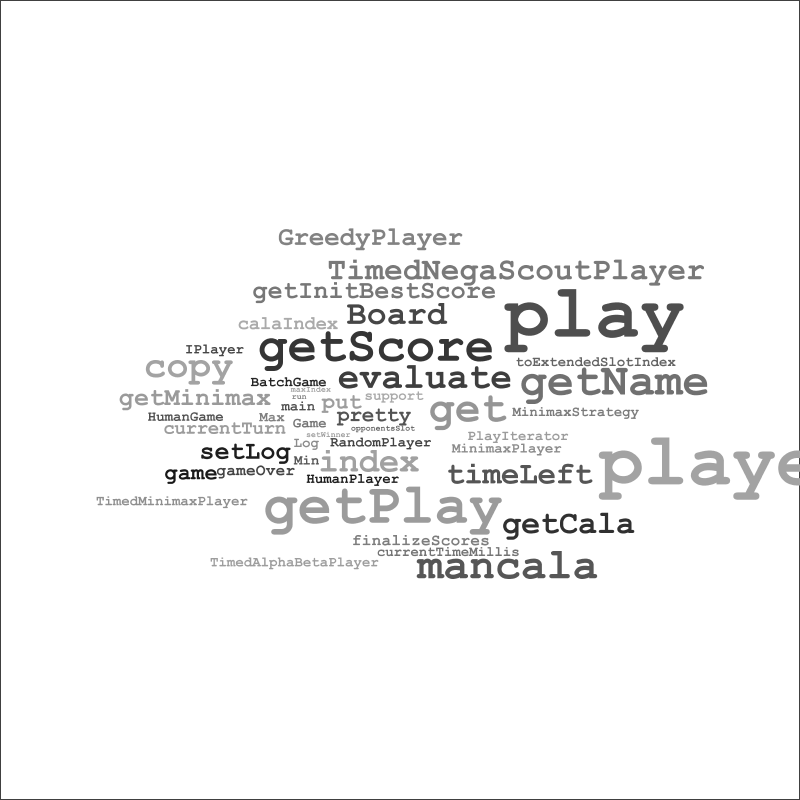
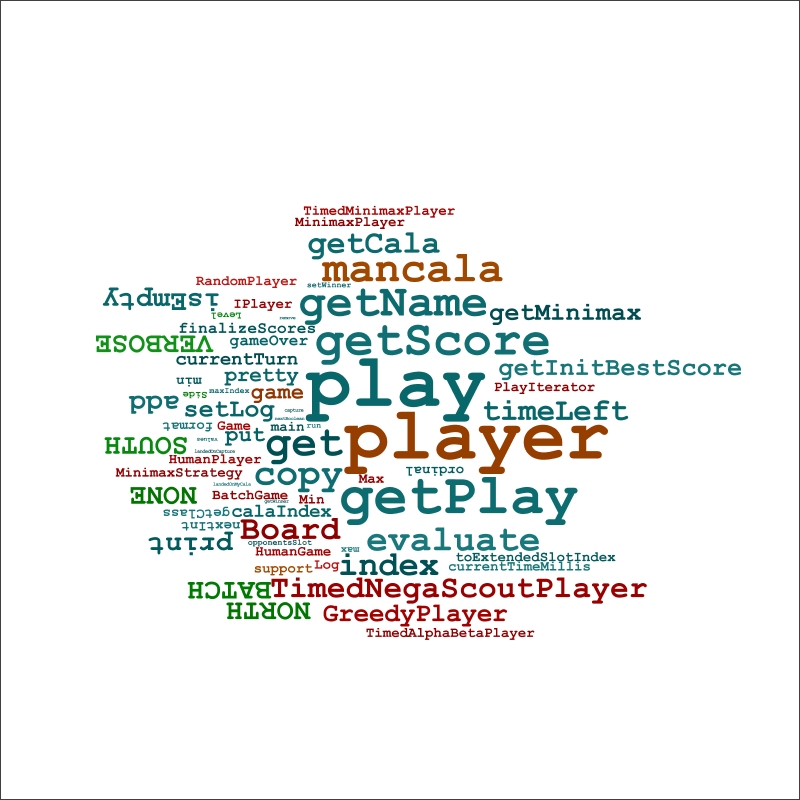
added a token type and a color schemer for Java

Changed region(s): [[0.125, 0.25, 1.0, 0.8125]]

diff --git a/src/main/java/org/chaoticbits/collabcloud/codeprocessor/java/JavaSummarizeVisitor.java b/src/main/java/org/chaoticbits/collabcloud/codeprocessor/java/JavaSummarizeVisitor.java
@@ -1,5 +1,9 @@
 package org.chaoticbits.collabcloud.codeprocessor.java;
 
+import static org.chaoticbits.collabcloud.codeprocessor.java.JavaTokenType.CLASS;
+import static org.chaoticbits.collabcloud.codeprocessor.java.JavaTokenType.ENUM;
+import static org.chaoticbits.collabcloud.codeprocessor.java.JavaTokenType.METHOD;
+import static org.chaoticbits.collabcloud.codeprocessor.java.JavaTokenType.PACKAGE;
 import japa.parser.ast.PackageDeclaration;
 import japa.parser.ast.body.ClassOrInterfaceDeclaration;
 import japa.parser.ast.body.EnumConstantDeclaration;
@@ -48,7 +52,7 @@ public class JavaSummarizeVisitor extends ReturnArgVisitorAdapter<CloudWeights> 
 	@Override
 	public CloudWeights visit(MethodDeclaration n, CloudWeights weights) {
 		super.visit(n, weights);
-		JavaSummaryToken token = new JavaSummaryToken(summarizable, n.getName(), n.getName(), "method");
+		JavaSummaryToken token = new JavaSummaryToken(summarizable, n.getName(), n.getName(), METHOD);
 		weights.increment(token, weight("methodDeclaration"));
 		return weights;
 	}
@@ -56,7 +60,7 @@ public class JavaSummarizeVisitor extends ReturnArgVisitorAdapter<CloudWeights> 
 	@Override
 	public CloudWeights visit(PackageDeclaration n, CloudWeights weights) {
 		super.visit(n, weights);
-		JavaSummaryToken token = new JavaSummaryToken(summarizable, n.getName().toString(), n.getName().getName(), "package");
+		JavaSummaryToken token = new JavaSummaryToken(summarizable, n.getName().toString(), n.getName().getName(), PACKAGE);
 		weights.increment(token, weight("package"));
 		return weights;
 	}
@@ -64,7 +68,7 @@ public class JavaSummarizeVisitor extends ReturnArgVisitorAdapter<CloudWeights> 
 	@Override
 	public CloudWeights visit(MethodCallExpr n, CloudWeights weights) {
 		super.visit(n, weights);
-		JavaSummaryToken token = new JavaSummaryToken(summarizable, n.getName(), n.getName(), "method");
+		JavaSummaryToken token = new JavaSummaryToken(summarizable, n.getName(), n.getName(), METHOD);
 		weights.increment(token, weight("methodCall"));
 		return weights;
 	}
@@ -72,7 +76,7 @@ public class JavaSummarizeVisitor extends ReturnArgVisitorAdapter<CloudWeights> 
 	@Override
 	public CloudWeights visit(ClassOrInterfaceDeclaration n, CloudWeights weights) {
 		super.visit(n, weights);
-		JavaSummaryToken token = new JavaSummaryToken(summarizable, n.getName(), n.getName(), "class");
+		JavaSummaryToken token = new JavaSummaryToken(summarizable, n.getName(), n.getName(), CLASS);
 		weights.increment(token, weight("classOrInterfaceDeclaration"));
 		return weights;
 	}
@@ -80,7 +84,7 @@ public class JavaSummarizeVisitor extends ReturnArgVisitorAdapter<CloudWeights> 
 	@Override
 	public CloudWeights visit(EnumDeclaration n, CloudWeights weights) {
 		super.visit(n, weights);
-		JavaSummaryToken token = new JavaSummaryToken(summarizable, n.getName(), n.getName(), "enum");
+		JavaSummaryToken token = new JavaSummaryToken(summarizable, n.getName(), n.getName(), ENUM);
 		weights.increment(token, weight("enumType"));
 		return weights;
 	}
@@ -88,7 +92,7 @@ public class JavaSummarizeVisitor extends ReturnArgVisitorAdapter<CloudWeights> 
 	@Override
 	public CloudWeights visit(EnumConstantDeclaration n, CloudWeights weights) {
 		super.visit(n, weights);
-		JavaSummaryToken token = new JavaSummaryToken(summarizable, n.getName(), n.getName(), "enum");
+		JavaSummaryToken token = new JavaSummaryToken(summarizable, n.getName(), n.getName(), ENUM);
 		weights.increment(token, weight("enumConstant"));
 		return weights;
 	}

diff --git a/src/test/java/org/chaoticbits/collabcloud/SummarizeRepo.java b/src/test/java/org/chaoticbits/collabcloud/SummarizeRepo.java
@@ -13,17 +13,17 @@ import org.apache.log4j.PropertyConfigurator;
 import org.chaoticbits.collabcloud.codeprocessor.CloudWeights;
 import org.chaoticbits.collabcloud.codeprocessor.IWeightModifier;
 import org.chaoticbits.collabcloud.codeprocessor.MultiplyModifier;
+import org.chaoticbits.collabcloud.codeprocessor.java.JavaColorScheme;
 import org.chaoticbits.collabcloud.codeprocessor.java.JavaProjectSummarizer;
 import org.chaoticbits.collabcloud.vc.git.GitLoader;
 import org.chaoticbits.collabcloud.vc.git.GitLoaderTest;
-import org.chaoticbits.collabcloud.visualizer.IColorScheme;
 import org.chaoticbits.collabcloud.visualizer.IPlaceStrategy;
 import org.chaoticbits.collabcloud.visualizer.Intersector;
 import org.chaoticbits.collabcloud.visualizer.LastHitCache.IHitCheck;
 import org.chaoticbits.collabcloud.visualizer.LayoutTokens;
 import org.chaoticbits.collabcloud.visualizer.RandomPlacement;
 import org.chaoticbits.collabcloud.visualizer.SpiralIterator;
-import org.chaoticbits.collabcloud.visualizer.color.RandomGrey;
+import org.chaoticbits.collabcloud.visualizer.color.IColorScheme;
 import org.chaoticbits.collabcloud.visualizer.font.BoundedLogFont;
 import org.chaoticbits.collabcloud.visualizer.font.IFontTransformer;
 
@@ -31,7 +31,7 @@ public class SummarizeRepo {
 	private static final double LEAF_CUTOFF = 1.0d;
 	private static final int SPIRAL_STEPS = 500;
 	private static final double SPIRAL_MAX_RADIUS = 400.0d;
-	private static final double SQUASHDOWN = 2;
+	private static final double SQUASHDOWN = 1;
 	private static final SpiralIterator spiral = new SpiralIterator(SPIRAL_MAX_RADIUS, SPIRAL_STEPS, SQUASHDOWN);
 	private static final File TEST_BED = new File("testgitrepo");
 	// private static final File THIS_REPO = new File("");
@@ -42,7 +42,8 @@ public class SummarizeRepo {
 	private static org.apache.log4j.Logger log = org.apache.log4j.Logger.getLogger(SummarizeRepo.class);
 	private static IWeightModifier modifier = new MultiplyModifier(1.1);
 	private static Font INITIAL_FONT = new Font("Courier New", Font.BOLD, 150);
-	private static IColorScheme COLOR_SCHEME = new RandomGrey(RAND, 25, 175);
+//	private static IColorScheme COLOR_SCHEME = new RandomGrey(RAND, 25, 175);
+	private static IColorScheme COLOR_SCHEME = new JavaColorScheme(RAND,50);
 	private static double MAX_FONT_SIZE = 75.0d;
 
 	private static final Intersector intersector = new Intersector(10, LEAF_CUTOFF);

diff --git a/src/main/java/org/chaoticbits/collabcloud/codeprocessor/java/JavaColorScheme.java b/src/main/java/org/chaoticbits/collabcloud/codeprocessor/java/JavaColorScheme.java
@@ -1,0 +1,63 @@
+package org.chaoticbits.collabcloud.codeprocessor.java;
+
+import static org.chaoticbits.collabcloud.codeprocessor.java.JavaTokenType.*;
+import java.awt.Color;
+import java.util.HashMap;
+import java.util.Map;
+import java.util.Random;
+
+import org.chaoticbits.collabcloud.codeprocessor.CloudWeights;
+import org.chaoticbits.collabcloud.codeprocessor.ISummaryToken;
+import org.chaoticbits.collabcloud.codeprocessor.ITokenType;
+import org.chaoticbits.collabcloud.visualizer.color.IColorScheme;
+
+public class JavaColorScheme implements IColorScheme {
+
+	private final Random randJitter;
+	private final static Map<JavaTokenType, Color> colorMap = new HashMap<JavaTokenType, Color>();
+	private final int jitterMax;
+
+	public JavaColorScheme() {
+		randJitter = null;
+		jitterMax = 0;
+		initColorMap();
+	}
+
+	public JavaColorScheme(Random randJitter, int jitterMax) {
+		this.randJitter = randJitter;
+		this.jitterMax = jitterMax;
+		initColorMap();
+	}
+
+	private void initColorMap() {
+		colorMap.put(CLASS, new Color(166, 4, 0));
+		colorMap.put(METHOD, new Color(0, 96, 100));
+		colorMap.put(PACKAGE, new Color(166, 77, 0));
+		colorMap.put(ENUM, new Color(0, 130, 9));
+
+	}
+
+	public Color lookup(ISummaryToken token, CloudWeights weights) {
+		return jittered(lookupColor(token.getType()));
+
+	}
+
+	private Color jittered(Color color) {
+		if (randJitter == null)
+			return new Color(color.getRGB());
+		int jitter = randJitter.nextInt(jitterMax) - jitterMax / 2;
+		return new Color(inBounds(color.getRed() + jitter), inBounds(color.getGreen() + jitter), inBounds(color.getBlue() + jitter));
+	}
+
+	private int inBounds(int i) {
+		return Math.min(Math.max(i, 0), 255);
+	}
+
+	private Color lookupColor(ITokenType type) {
+		Color color = colorMap.get(type);
+		if (color == null)
+			color = new Color(100, 100, 100);
+		return color;
+	}
+
+}

diff --git a/src/test/java/org/chaoticbits/collabcloud/vc/git/GitLoaderTest.java b/src/test/java/org/chaoticbits/collabcloud/vc/git/GitLoaderTest.java
@@ -22,11 +22,11 @@ public class GitLoaderTest {
 
 	private static final File GIT_DIR = new File("testgitrepo/.git");
 
-	private JavaSummaryToken timedNegaScout = new JavaSummaryToken(null, "", "TimedNegaScout", "");
-	private JavaSummaryToken greedyPlayer = new JavaSummaryToken(null, "", "GreedyPlayer", "");
-	private JavaSummaryToken getPlay = new JavaSummaryToken(null, "", "getPlay", "");
-	private JavaSummaryToken setLog = new JavaSummaryToken(null, "", "setLog", "");
-	private JavaSummaryToken play = new JavaSummaryToken(null, "", "play", "");
+	private JavaSummaryToken timedNegaScout = new JavaSummaryToken(null, "", "TimedNegaScout", null);
+	private JavaSummaryToken greedyPlayer = new JavaSummaryToken(null, "", "GreedyPlayer", null);
+	private JavaSummaryToken getPlay = new JavaSummaryToken(null, "", "getPlay", null);
+	private JavaSummaryToken setLog = new JavaSummaryToken(null, "", "setLog", null);
+	private JavaSummaryToken play = new JavaSummaryToken(null, "", "play", null);
 
 	@Test
 	public void allThreeDevs() throws Exception {

diff --git a/src/main/java/org/chaoticbits/collabcloud/codeprocessor/java/JavaSummaryToken.java b/src/main/java/org/chaoticbits/collabcloud/codeprocessor/java/JavaSummaryToken.java
@@ -14,9 +14,9 @@ public class JavaSummaryToken implements ISummaryToken {
 	private JavaClassArtifact summarizable;
 	private String fullName;
 	private String token;
-	private String type;
+	private JavaTokenType type;
 
-	public JavaSummaryToken(JavaClassArtifact summarizable, String fullName, String token, String type) {
+	public JavaSummaryToken(JavaClassArtifact summarizable, String fullName, String token, JavaTokenType type) {
 		this.summarizable = summarizable;
 		this.fullName = fullName;
 		this.token = token;
@@ -35,7 +35,7 @@ public class JavaSummaryToken implements ISummaryToken {
 		return fullName;
 	}
 
-	public String getType() {
+	public JavaTokenType getType() {
 		return type;
 	}
 

diff --git a/src/test/java/org/chaoticbits/collabcloud/codeprocessor/java/JavaSummaryTokenTest.java b/src/test/java/org/chaoticbits/collabcloud/codeprocessor/java/JavaSummaryTokenTest.java
@@ -16,7 +16,7 @@ public class JavaSummaryTokenTest {
 	@Test
 	public void testEqualsOnlyOnToken() throws Exception {
 		JavaSummaryToken token = new JavaSummaryToken(null, null, "token", null);
-		JavaSummaryToken token2 = new JavaSummaryToken(null, "different", "token", "different");
+		JavaSummaryToken token2 = new JavaSummaryToken(null, "different", "token", JavaTokenType.CLASS);
 		assertNotSame(token, token2);
 		assertEquals(token, token2);
 		assertFalse(new JavaSummaryToken(null, null, "token", null).equals(new JavaSummaryToken(null, null, "token2", null)));

diff --git a/src/main/java/org/chaoticbits/collabcloud/visualizer/LayoutTokens.java b/src/main/java/org/chaoticbits/collabcloud/visualizer/LayoutTokens.java
@@ -18,6 +18,7 @@ import javax.imageio.ImageIO;
 import org.chaoticbits.collabcloud.codeprocessor.CloudWeights;
 import org.chaoticbits.collabcloud.codeprocessor.ISummaryToken;
 import org.chaoticbits.collabcloud.visualizer.LastHitCache.IHitCheck;
+import org.chaoticbits.collabcloud.visualizer.color.IColorScheme;
 import org.chaoticbits.collabcloud.visualizer.font.IFontTransformer;
 
 public class LayoutTokens {

diff --git a/src/main/java/org/chaoticbits/collabcloud/visualizer/color/RandomGrey.java b/src/main/java/org/chaoticbits/collabcloud/visualizer/color/RandomGrey.java
@@ -5,7 +5,6 @@ import java.util.Random;
 
 import org.chaoticbits.collabcloud.codeprocessor.CloudWeights;
 import org.chaoticbits.collabcloud.codeprocessor.ISummaryToken;
-import org.chaoticbits.collabcloud.visualizer.IColorScheme;
 
 public class RandomGrey implements IColorScheme {
 

diff --git a/src/main/java/org/chaoticbits/collabcloud/codeprocessor/java/JavaTokenType.java b/src/main/java/org/chaoticbits/collabcloud/codeprocessor/java/JavaTokenType.java
@@ -1,0 +1,7 @@
+package org.chaoticbits.collabcloud.codeprocessor.java;
+
+import org.chaoticbits.collabcloud.codeprocessor.ITokenType;
+
+public enum JavaTokenType implements ITokenType {
+	METHOD, CLASS, PACKAGE, ENUM;
+}

diff --git a/src/main/java/org/chaoticbits/collabcloud/codeprocessor/ISummaryToken.java b/src/main/java/org/chaoticbits/collabcloud/codeprocessor/ISummaryToken.java
@@ -8,6 +8,6 @@ public interface ISummaryToken {
 	
 	abstract public String getFullName();
 	
-	abstract public String getType();
+	abstract public ITokenType getType();
 	
 }

diff --git a/src/main/java/org/chaoticbits/collabcloud/codeprocessor/ITokenType.java b/src/main/java/org/chaoticbits/collabcloud/codeprocessor/ITokenType.java
@@ -1,0 +1,5 @@
+package org.chaoticbits.collabcloud.codeprocessor;
+
+public interface ITokenType {
+
+}
